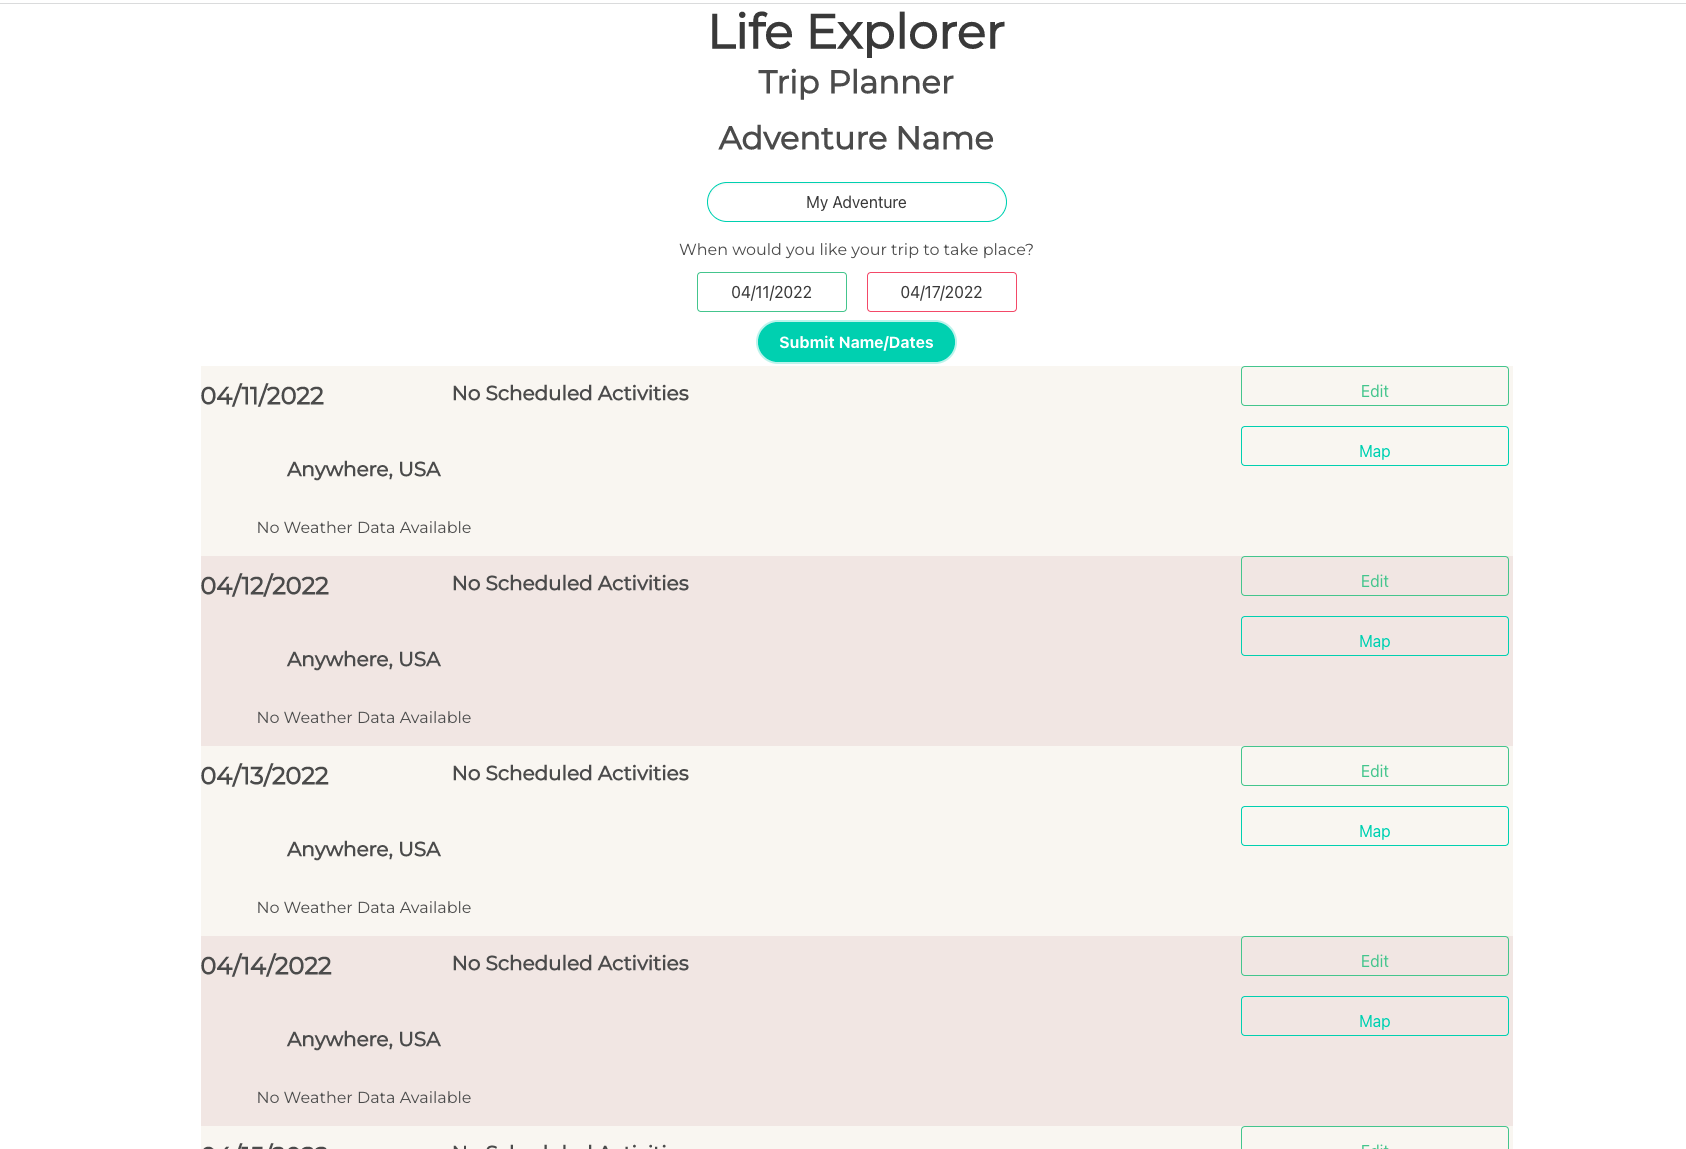
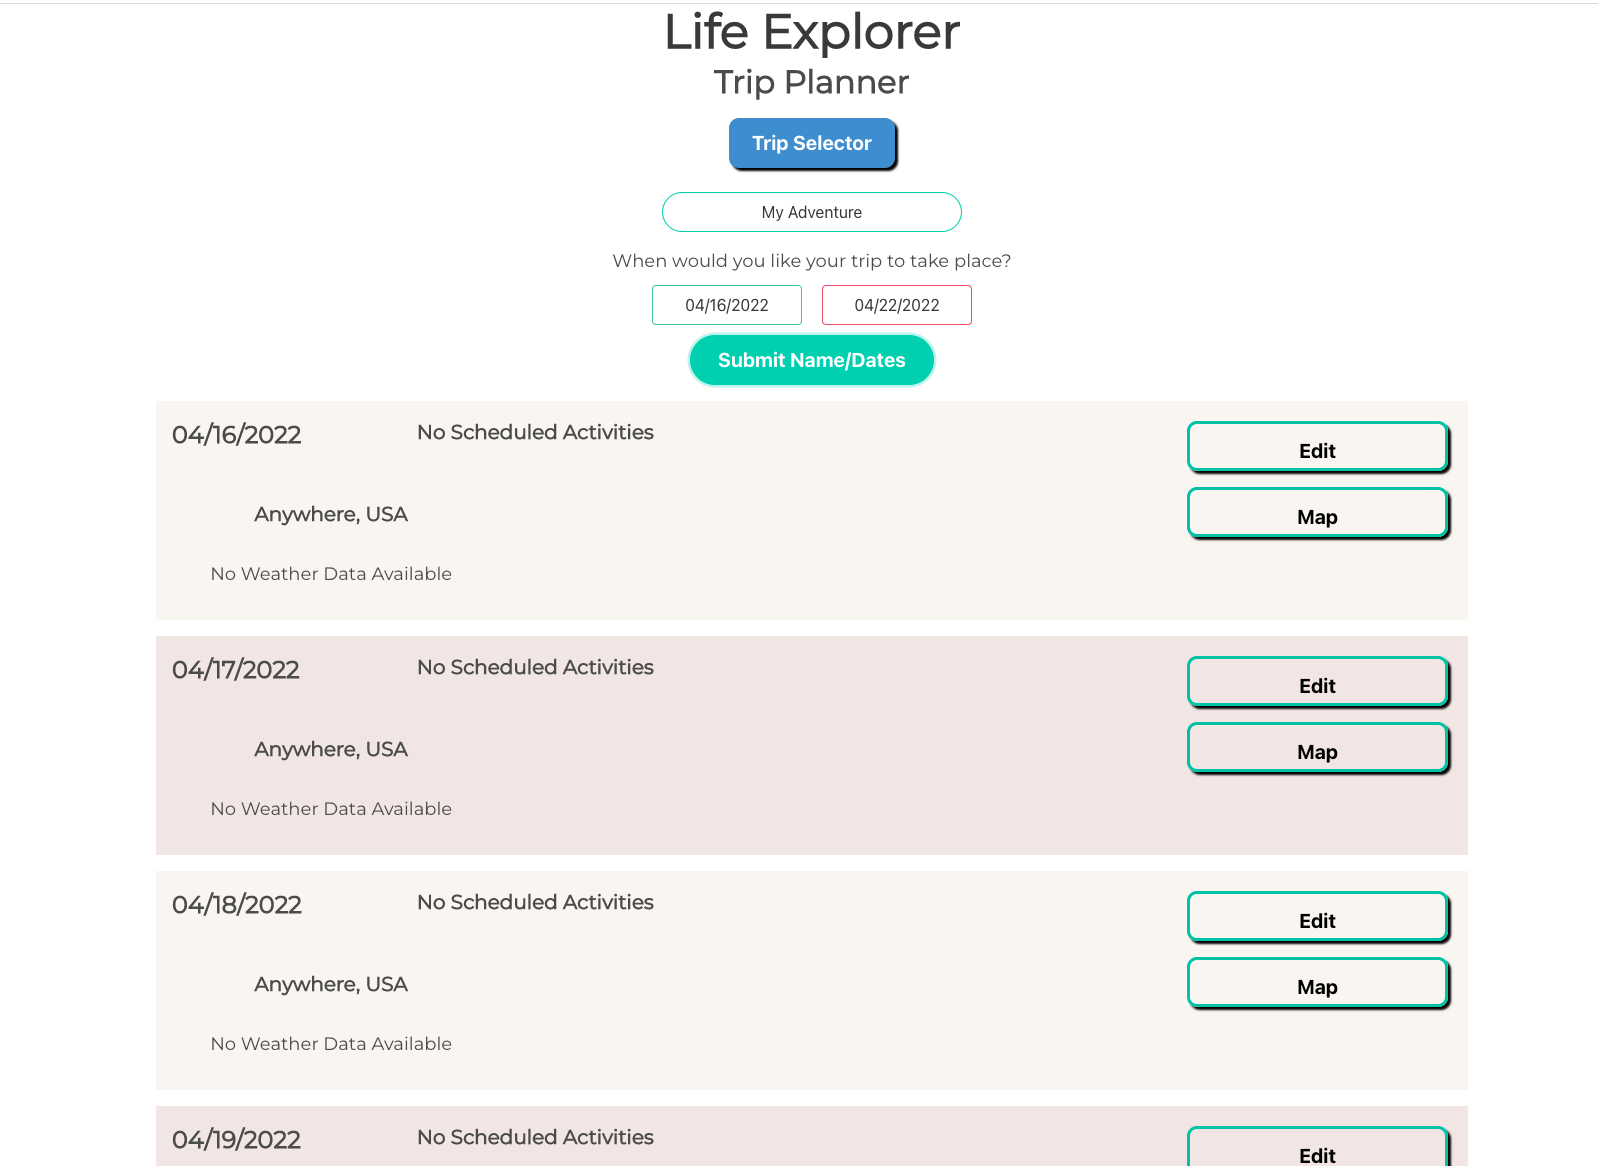
major update to readme.md for new features

diff --git a/README.md b/README.md
@@ -28,11 +28,15 @@ Application may be run from here: https://melliott7264.github.io/vacation-planne
 
 When you first load the applicaton, you will see the following Startup/Welcome screen.  Click on the Start button to get started setting up your adventure.
 
-![Startup/welcome screenshot](./assets/images/ScreenSho2.png)
+  ![Startup/welcome screenshot](./assets/images/ScreenShot2.png)
+
 
 On this screen,  you will type in a name for your adventure as well as a start date and an end date.   Clicking on the date field will result in a pop-up calendar to assist you in picking your dates.   As our weather forcast data is limited to a week out, you can't pick an ending date more than 7 days out from the current date.   When you have typed in a name and selected and start and end date, click on the Submit Name/Dates button.
 
-![Screenshot of adventure name and dates entry fields](./assets/images/ScreenShot3.png)
+  ![Screenshot of adventure name and dates entry fields](./assets/images/ScreenShot3.png)
+ 
+  ![Screenshot with filled day/location entries](./assets/images/ScreenShot35.png)
+
 
 Next,  you will be presented with a screen of blank dates for your upcoming adventure.  You must enter an activity and a location for each date.   Do this by clicking on the Edit button.
 
@@ -50,7 +54,11 @@ Once you are on the Map screen, you can zoom in and zoom out on the map and drag
 
 ![Screenshot with filled day/location entries](./assets/images/ScreenShot6.png)
 
-Right now, you can only have one plan at a time.   If you summit a new name and or dates, you will overwrite your previous plan.  We intend to add the option to have and manage multiple plans in future releases.
+If you would like to create a second or third trip plan or more, you can do that.  Just type the new trip name into the name field, select new dates (if you desire) and click on the Submit Names/Dates button again.  This will add the new trip.   To select and view  your trip, click on the Trip Selector button.  That will present you with the screen shown below.
+
+![Screenshot with filled day/location entries](./assets/images/ScreenShot7.png)
+
+On the screen above, click on the drop down menu and select the trip you wish to view.  Then just click on the Select button.   If you want to delete the selected trip, click on the Remove button.  
 
 ![Screenshot with filled day/location entries](./assets/images/ScreenShot1.png)
 
@@ -58,7 +66,9 @@ Right now, you can only have one plan at a time.   If you summit a new name and 
 
 ## Credits
 
-Developers:
+Repository for application code: https://github.com/melliott7264/vacation-planner
+
+Developers:   
 
 Thomas Ciszek  https://github.com/ThomasCsk
 
